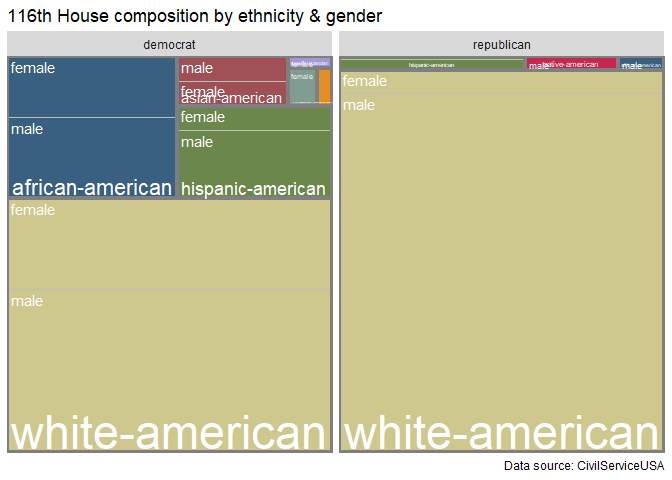
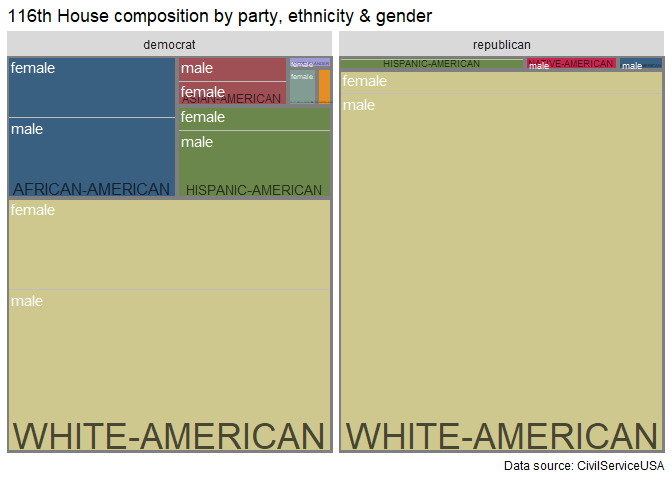
re

diff --git a/README.md b/README.md
@@ -105,23 +105,25 @@ gens116 %>%
 
 ![](README_files/figure-markdown_github/unnamed-chunk-5-1.png)
 
-#### 1.2 Faith & the 115th House
+#### 1.2 Ethnicity & gender in the 116th House
+
+> A quick look at gender & ehtnicity diversity by party affiliation in the new 116th House.
 
 ``` r
 csusa_house_dets %>%
   group_by(party, ethnicity, gender) %>%
   summarize(n = n()) %>%
-  na.omit() %>%
+  #na.omit() %>%
     ggplot(aes(area = n,
                fill = ethnicity,
                label = gender,
-               subgroup = ethnicity)) +
+               subgroup = toupper(ethnicity))) +
       treemapify::geom_treemap(alpha=.85) +
       treemapify::geom_treemap_subgroup_border() +
       treemapify::geom_treemap_subgroup_text(place = "bottom", 
                                  grow = F, 
-                                 #alpha = 0.5, 
-                                 colour ="white",  
+                                 alpha = 0.65, 
+                                 colour ="black",  
                                  min.size = 0)+ 
       treemapify::geom_treemap_text(colour = "white", 
                         place = "topleft", 
@@ -131,7 +133,7 @@ csusa_house_dets %>%
       facet_wrap(~party)+
       theme(legend.position = "none",
             legend.title=element_blank()) +
-      labs(title = '116th House composition by ethnicity & gender',
+      labs(title = '116th House composition by party, ethnicity & gender',
            caption = 'Data source: CivilServiceUSA')
 ```
 
@@ -141,7 +143,7 @@ csusa_house_dets %>%
 
 ### 2 Political ideologies and congressional composition
 
-> The [VoteView](https://voteview.com/) project provides roll call-based political ideology scores for all lawmakers in the history of the US Congress. Data can be used to investigate congressional composition by party affiliation over time, the aggregate political ideologies of both houses over time, and the ideologies of individual lawmakers. And any number of other roll call-based analyses.
+> The [VoteView](https://voteview.com/) project provides roll call-based political ideology scores for all lawmakers in the history of the US Congress. Data can be used to investigate congressional composition by party affiliation over time, the aggregate political ideologies of both houses over time, and the ideologies of individual lawmakers. And any number of other roll call-based analyses. The R package `Rvoteview` provides access to these data.
 
 ``` r
 rvoteview_house_50 <- lapply(c(66:115), function (x)
@@ -179,7 +181,7 @@ rvoteview_house_50 %>%
 
 #### 2.2 Lawmaker political ideologies
 
-> A brief description of methods. Interpreting ideology scores.
+> The [NOMINATE scaling procedure](https://voteview.com/about) is used to calculate the political ideology of lawmakers based on voting behavior. Ideologies are scored along two dimensions. The first captures ideological variation based in the standard liberal-conservative dvide. The second captures variation based in social conservatism that crosscut political affiliation.
 
 ``` r
 extremes <- rvoteview_house_50 %>%
@@ -478,7 +480,7 @@ tree <- tidycens_data %>%
   ungroup()
 ```
 
-> Race & educational attainment profiles for a random sample of congressional districts:
+> **Race by educational attainment profiles** for a random sample of congressional districts:
 
 ``` r
 set.seed(99)
@@ -537,7 +539,7 @@ ggplot(data = by_pres, aes(x=Per_White_Working,
 
 ![](README_files/figure-markdown_github/unnamed-chunk-27-1.png)
 
-> So, as the table below attests, this relationship has grown stronger in the Trump era.
+> **As the table below attests**, this relationship has grown stronger in the Trump era.
 
 ``` r
 by_pres %>% 
@@ -557,6 +559,8 @@ by_pres %>%
 ### 6 Equal-area political geometries
 
 > The Daily Kos makes available a set of alternative geometries that represent congressional districts and states as equal-area polygons. As some of the maps presented above attest, America's larger states and congressional districts tend to overwhelm a standard map, and collectively serve to under-represent/hide smaller, more populous urban areas.
+
+> **Links** to these shapefiles are presented below:
 
 ``` r
 base <- 'https://drive.google.com/uc?authuser=0&id='
@@ -632,7 +636,7 @@ dailykos_tile$outer %>%
         legend.title=element_blank(),
         legend.position = 'bottom') +
   facet_wrap(~congress) +
-  labs(title = "US Senate Composition by Congress, State & Party: Snapshots",
+  labs(title = "US Senate Composition by Congress, State & Party: 6 snapshots",
        caption = 'Data sources: Daily Kos & VoteView')
 ```
 
